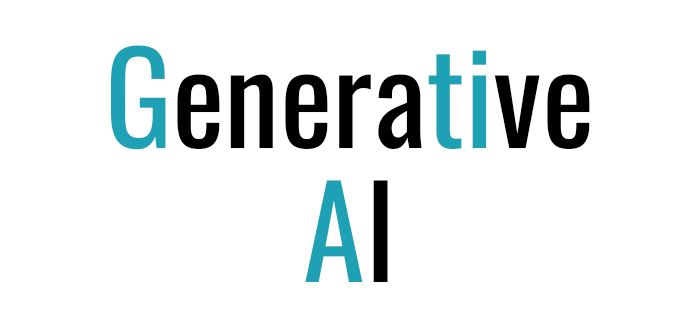
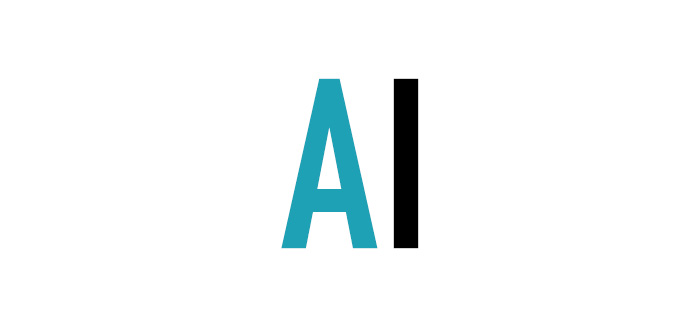
ai変更

Changed region(s): [[0.15, 0.122, 0.84, 0.8537]]

diff --git a/portfoliohoriy.com/css/style.css b/portfoliohoriy.com/css/style.css
@@ -152,9 +152,9 @@ img {
 }
 
 @media screen and (max-width: 767px) {
-.mv {
-  height: 66vh;
-}
+  .mv {
+    height: 66vh;
+  }
 }
 
 .mv-container {
@@ -183,8 +183,8 @@ img {
   line-height: 2;
 }
 
-.mv-text .top_mv{
-font-weight: 600;
+.mv-text .top_mv {
+  font-weight: 600;
 }
 
 /*--------------------------------
@@ -223,7 +223,7 @@ font-weight: 600;
 
 .works-item:hover {
   /*  opacity: .9; */
-  box-shadow: 5px 5px 10px rgba(0, 0, 0, 0.2);
+  box-shadow: 5px 5px 10px rgba(30 161 182 / 29%);
 
 }
 

diff --git a/portfoliohoriy.com/ai/index.php b/portfoliohoriy.com/ai/index.php
@@ -27,14 +27,67 @@
     <?php include '../common/header.php'; ?>
     <main class="content">
       <div class="underlaye_mv">
-        <p class="mv-title">Generative AI</p>
-        <p class="mv-subtitle">AIで生成した作品の一部を紹介します</p>
+        <p class="mv-title">AI</p>
+        <!-- <p class="mv-subtitle">AIで生成した作品の一部を紹介します</p> -->
       </div>
-      <div class="banner_bg">
+
+      <section class="works section" id="works">
+      <!-- <h2 class="title">Youtube</h2> -->
+      <div class="youtube-pic">
+        <div class="pic-left">
+          <div class="youtube-item">
+            <div class="works-img">
+              <iframe width="560" height="315" src="https://www.youtube.com/embed/cPgHBf8pFhE?si=aYwkgI66tG8CNZZ2" title="YouTube video player" frameborder="0" allow="accelerometer; autoplay; clipboard-write; encrypted-media; gyroscope; picture-in-picture; web-share" referrerpolicy="strict-origin-when-cross-origin" allowfullscreen></iframe>
+            </div>
+          </div>
+        </div>
+        <div class="pic-right">
+          <div class="">
+            <div class="profile-body">
+              <h2>Stable DiffusionをMacOSに実装</h2>
+              <div class="about_txt">
+                <p>
+                  基本的にWindows環境に実装することが前提のStable Diffusion。<br>
+                  そんな中、MacOSに実装する方法をYouTubeで紹介しました。<br>
+                  2023年の動画公開当時、日本語のドキュメントが全くといっていいほど出回っていない中、いち早く情報をキャッチアップし実装。<br>
+                  ノウハウを公開しました。
+                </p>
+              </div>
+              <a href="/reaction.pdf" target="_blank">
+                <button id="modalOpen" class="link_btn_tube">反響を見る　→</button></a>
+              <div id="easyModal" class="modal">
+                <div class="modal-content">
+                  <!--<div class="modal-header">
+                      <img src="/img/netwog" alt="AWS">
+                      <span class="modalClose">×</span>
+                    </div> -->
+                </div>
+              </div>
+            </div>
+          </div>
+        </div>
+      </div>
+
+      <div class="youtube">
+        <div class="youtube-item">
+          <div class="works-img">
+            <iframe width="560" height="315" src="https://www.youtube.com/embed/-lm6UCbUMEo?si=lxQDT2RQegPWMCln" title="YouTube video player" frameborder="0" allow="accelerometer; autoplay; clipboard-write; encrypted-media; gyroscope; picture-in-picture; web-share" referrerpolicy="strict-origin-when-cross-origin" allowfullscreen></iframe>
+          </div>
+        </div>
+        <div class="youtube-item">
+          <div class="works-img">
+            <iframe width="560" height="315" src="https://www.youtube.com/embed/BZgbuo_0ItM?si=8RI65lRQsrYVvV48" title="YouTube video player" frameborder="0" allow="accelerometer; autoplay; clipboard-write; encrypted-media; gyroscope; picture-in-picture; web-share" referrerpolicy="strict-origin-when-cross-origin" allowfullscreen></iframe>
+          </div>
+        </div>
+      </div>
+    </section>
+
+
+      <!-- <div class="banner_bg">
         <img src="/img/ai/ai_pc.jpg" alt="" class="pc">
         <img src="/img/ai/ai_sp.jpg" alt="" class="sp">
         </article>
-      </div>
+      </div> -->
       <!--  <div class="page-top" id="js-page-top">
         <span class="material-icons-outlined">expand_less</span>
       </div>-->

diff --git a/portfoliohoriy.com/index.php b/portfoliohoriy.com/index.php
@@ -94,7 +94,7 @@
             <p class="works-name"><br class="sp-only">more info →</p>
           </a>
           <a class="works-item" href="ai/">
-            <div class="works-img"><img src="/img/ai.jpg" alt="" /></div>
+            <div class="works-img"><img src="/img/ai-02.png" alt="" /></div>
             <p class="works-name"><br class="sp-only">more info →</p>
           </a>
           <a class="works-item" href="movie/">
